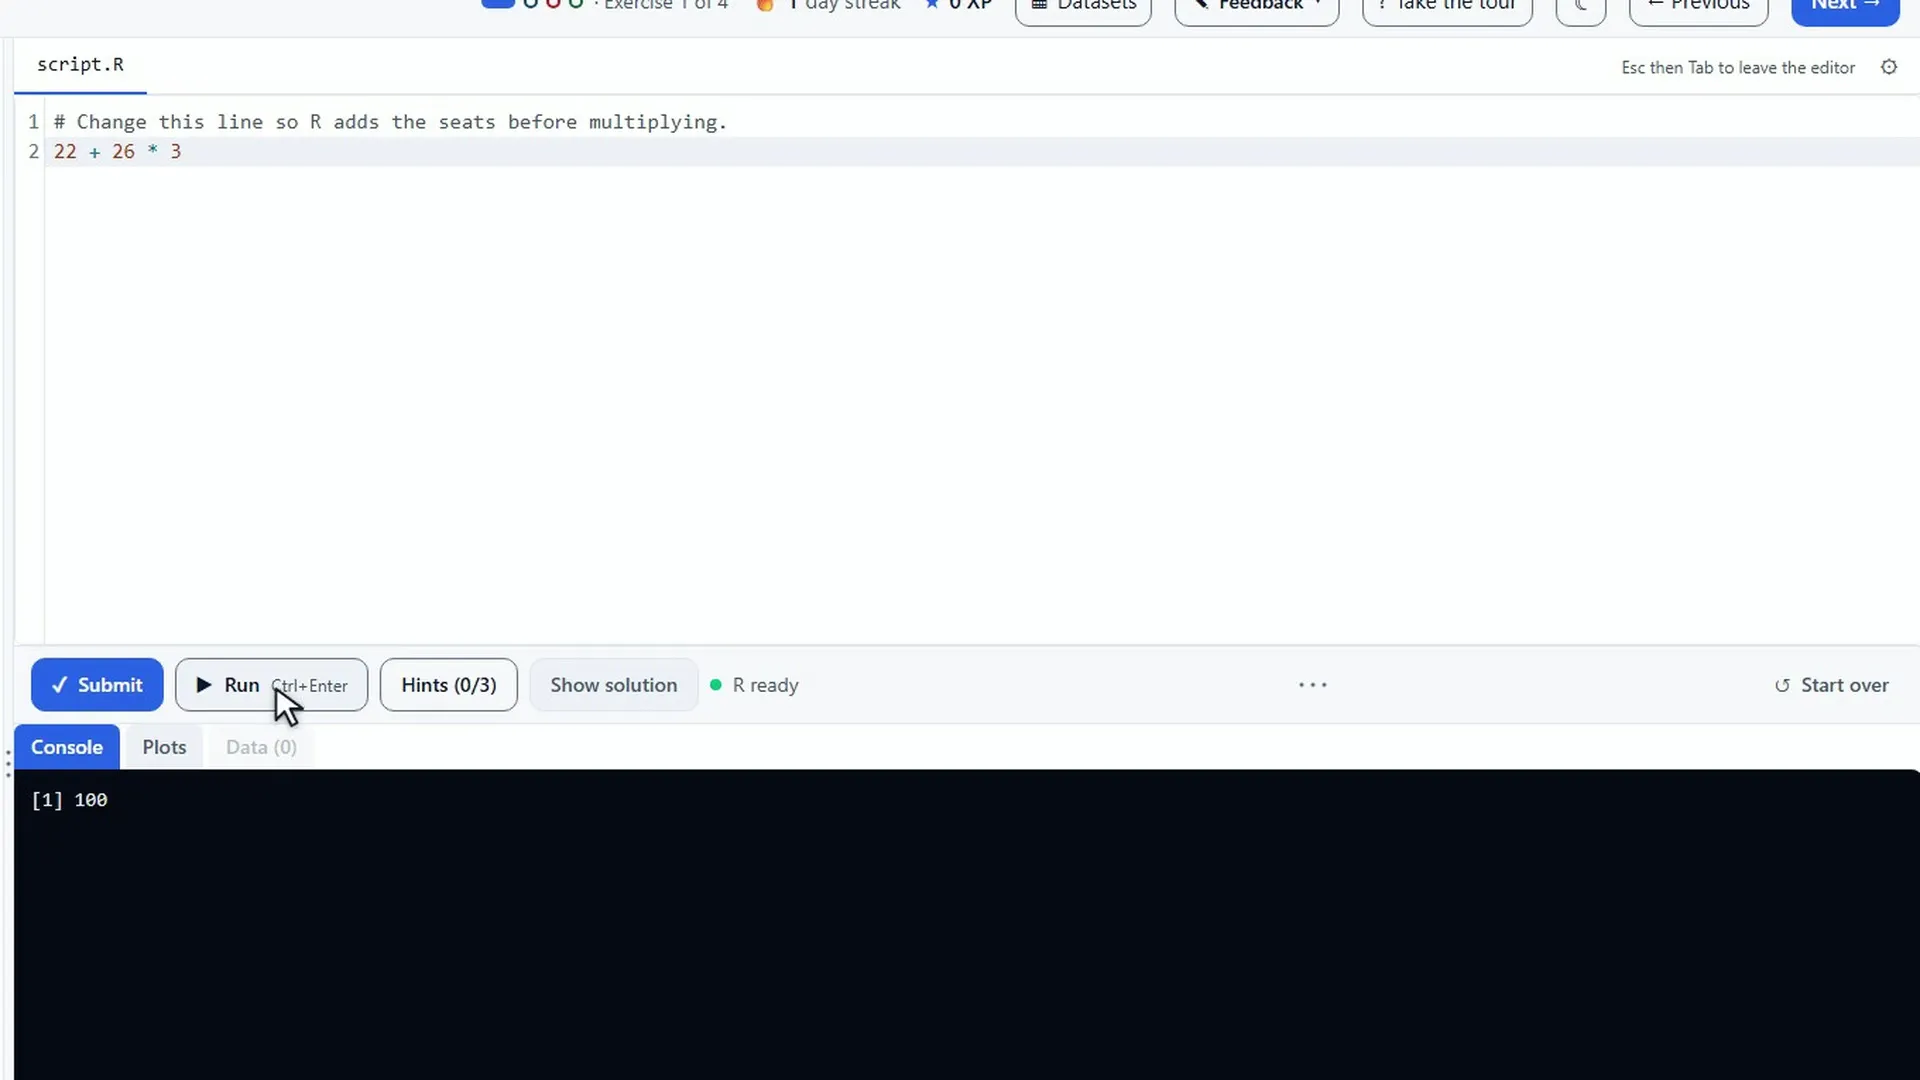
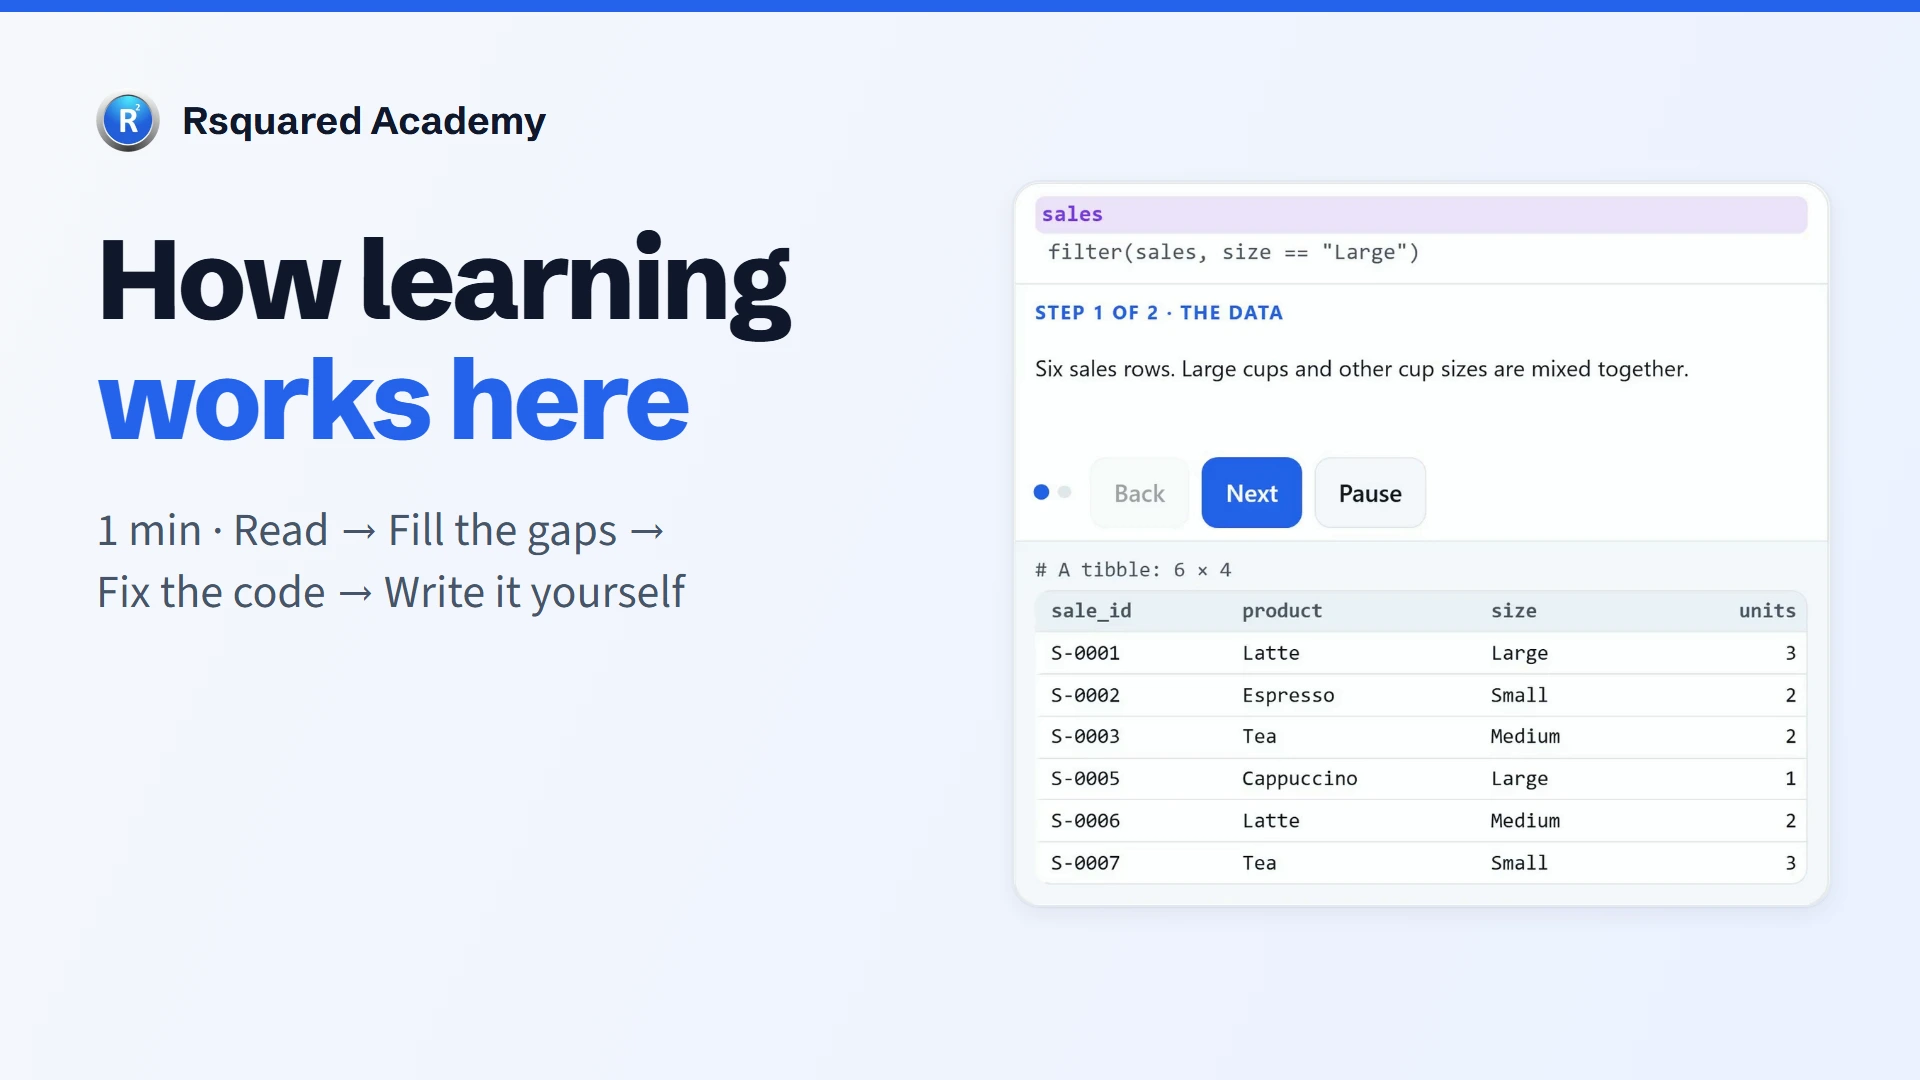
www: branded poster and a stronger play button for the how-it-works video (www-a12poster)

diff --git a/tests/learning-explainer.spec.ts b/tests/learning-explainer.spec.ts
@@ -5,7 +5,7 @@ import { join } from 'node:path';
 
 const mediaPath = '/media/explainer/how-learning-works.mp4';
 const heroName = 'Watch how it works · 1 min';
-const sectionName = 'Play: how learning works here (1 min)';
+const sectionName = 'Play: how learning works here (1 min) — Watch · 1 min';
 
 async function stubAnalytics(page: Page, choice: 'granted' | 'denied' | null = 'granted') {
   await page.route(/googletagmanager|google-analytics/, route => route.abort());
@@ -196,8 +196,14 @@ for (const width of [1440, 820, 390]) for (const theme of ['light', 'dark'] as c
       expect(box.width / box.height).toBeCloseTo(16 / 9, 2);
       expect(await page.evaluate(() => document.documentElement.scrollWidth)).toBeLessThanOrEqual(width);
       const overlay = (await poster.locator('.explainer-play').boundingBox())!;
-      expect(overlay.width).toBeGreaterThanOrEqual(64);
-      expect(overlay.height).toBeGreaterThanOrEqual(64);
+      expect(overlay.width).toBeGreaterThanOrEqual(width > 600 ? 88 : 64);
+      expect(overlay.height).toBeGreaterThanOrEqual(width > 600 ? 88 : 64);
+      await expect(poster.getByText('Watch · 1 min', { exact: true })).toBeVisible();
+      const posterPath = `/media/explainer/how-learning-works-poster${theme === 'dark' ? '-dark' : ''}.webp`;
+      expect(await poster.locator('img').evaluate((image: HTMLImageElement) => ({
+        path: new URL(image.currentSrc).pathname, width: image.naturalWidth, height: image.naturalHeight,
+      }))).toEqual({ path: posterPath, width: 1920, height: 1080 });
+      await expect(figure.locator('video')).toHaveAttribute('poster', posterPath);
       const hero = page.getByRole('button', { name: heroName, exact: true });
       const heroBox = (await hero.boundingBox())!;
       expect(heroBox.height).toBeGreaterThanOrEqual(44);
@@ -207,6 +213,12 @@ for (const width of [1440, 820, 390]) for (const theme of ['light', 'dark'] as c
         expect(heroBox.y).toBeGreaterThanOrEqual(start.y + start.height);
       }
       const name = `${path === '/' ? 'home' : 'courses'}-${width}-${theme}`;
+      const posterDirectory = process.env.A12POSTER_SHOTS_DIR;
+      if (posterDirectory && width !== 820) {
+        mkdirSync(posterDirectory, { recursive: true });
+        const section = path === '/' ? page.locator('.teaching-section') : page.locator('section[aria-labelledby="ladder-h"]');
+        await section.screenshot({ path: join(posterDirectory, `${name}-section.png`) });
+      }
       const directory = process.env.A12MODAL_SHOTS_DIR;
       if (directory) {
         mkdirSync(directory, { recursive: true });

diff --git a/scripts/explainer-poster/poster.html b/scripts/explainer-poster/poster.html
@@ -1,0 +1,29 @@
+<!doctype html>
+<html lang="en">
+  <head>
+    <meta charset="utf-8" />
+    <title>How learning works here — video poster</title>
+    <link rel="stylesheet" href="../../src/styles/tokens.css" />
+    <link rel="stylesheet" href="https://fonts.googleapis.com/css2?family=Schibsted+Grotesk:wght@600;700;800&family=Source+Sans+3:wght@400;600&display=swap" />
+    <style>
+      * { box-sizing: border-box; margin: 0; }
+      body { width: 1920px; height: 1080px; overflow: hidden; background: var(--surface); color: var(--ink); font-family: var(--font-body); }
+      main { position: relative; width: 100%; height: 100%; padding: 88px 96px; background: linear-gradient(115deg, var(--surface), var(--surface-tint)); }
+      main::before { content: ''; position: absolute; inset: 0 0 auto; height: 12px; background: var(--brand); }
+      .wordmark { display: flex; align-items: center; gap: 22px; font: 700 38px var(--font-display); }
+      .wordmark img { width: 64px; height: 64px; }
+      h1 { width: 850px; margin-top: 68px; font: 800 112px/1.07 var(--font-display); letter-spacing: -0.035em; }
+      h1 span { color: var(--brand); }
+      p { width: 810px; margin-top: 40px; color: var(--ink-muted); font-size: 46px; line-height: 1.35; }
+      .lesson { position: absolute; top: 180px; right: 88px; width: 820px; border: 2px solid var(--line); border-radius: 28px; box-shadow: var(--shadow-card); }
+    </style>
+  </head>
+  <body>
+    <main>
+      <div class="wordmark"><img src="../../public/images/rsquared-logo.png" alt="" />Rsquared Academy</div>
+      <h1>How learning<br /><span>works here</span></h1>
+      <p>1 min · Read → Fill the gaps →<br />Fix the code → Write it yourself</p>
+      <img class="lesson" alt="A frame from the real lesson video" />
+    </main>
+  </body>
+</html>
